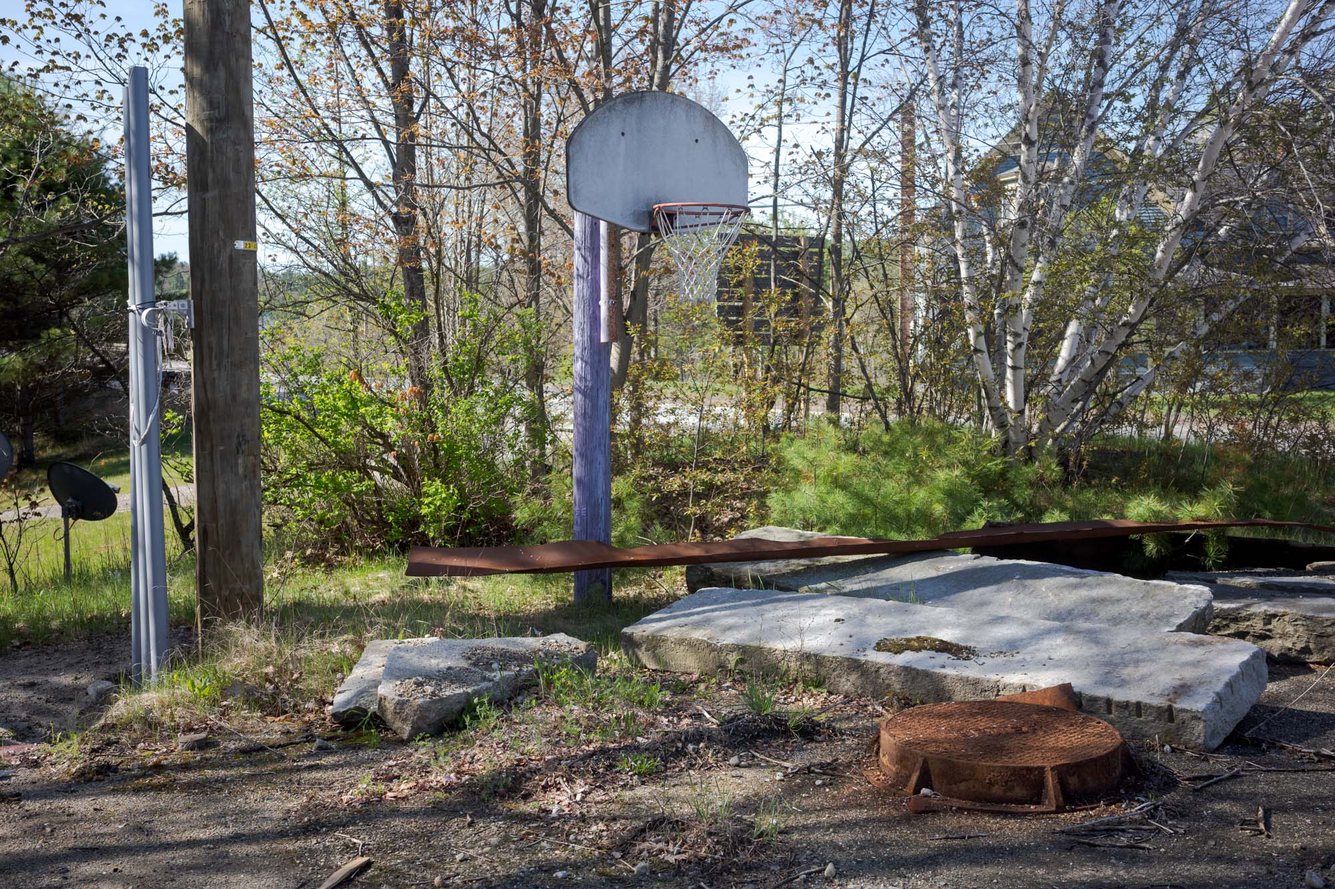
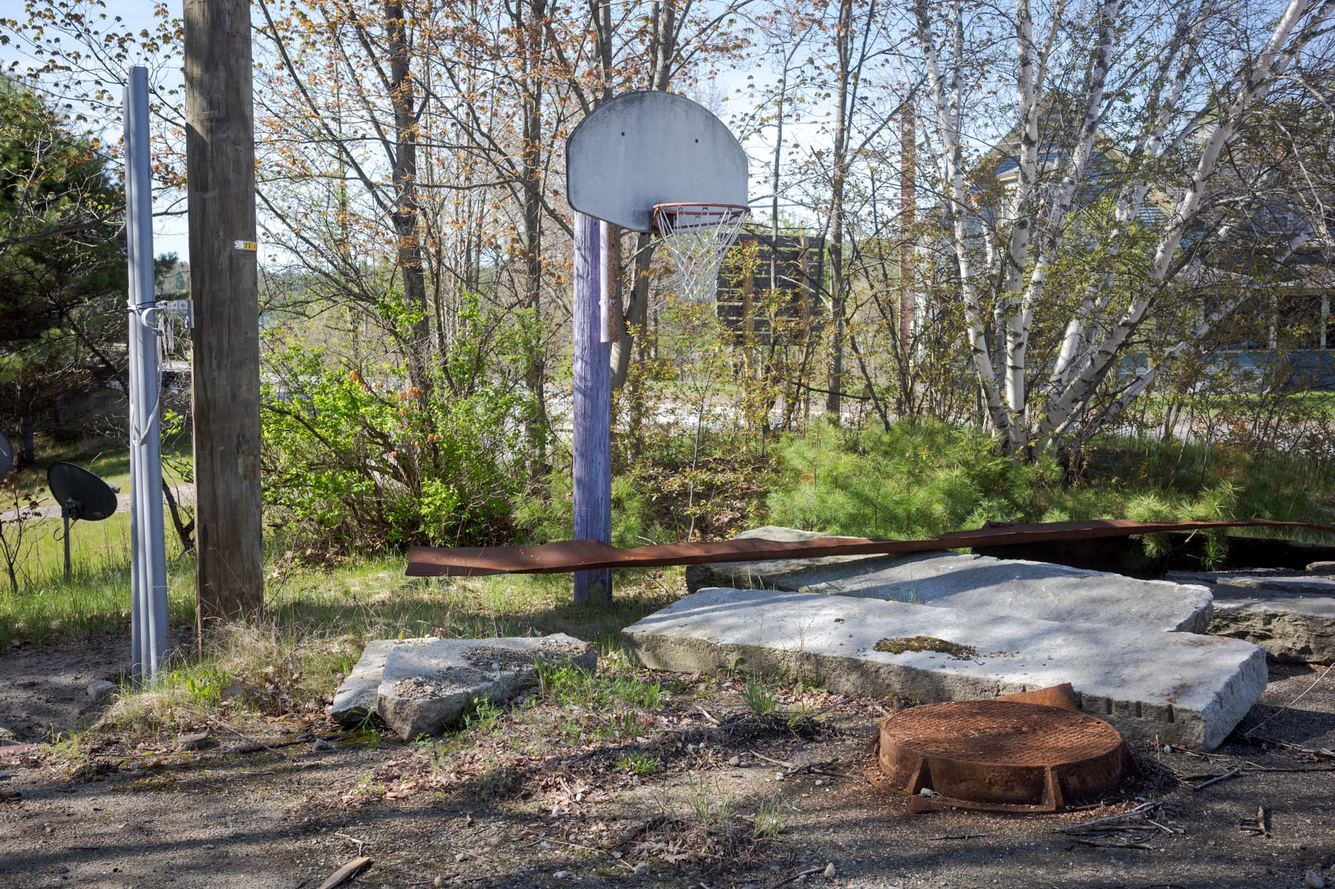
New Post to ngaffney - Riverside

diff --git a/recent/2026-07-16-riverside.md b/recent/2026-07-16-riverside.md
@@ -1,0 +1,6 @@
+---
+title: Riverside
+date: 2026-07-16
+layout: post.njk
+---
+<img srcset="/images/recent/07-14-26_021556-1000px.jpg 1x, /images/recent/07-14-26_021556-2000px.jpg 2x" src="/images/recent/07-14-26_021556-1000px.jpg" alt="Riverside" />
